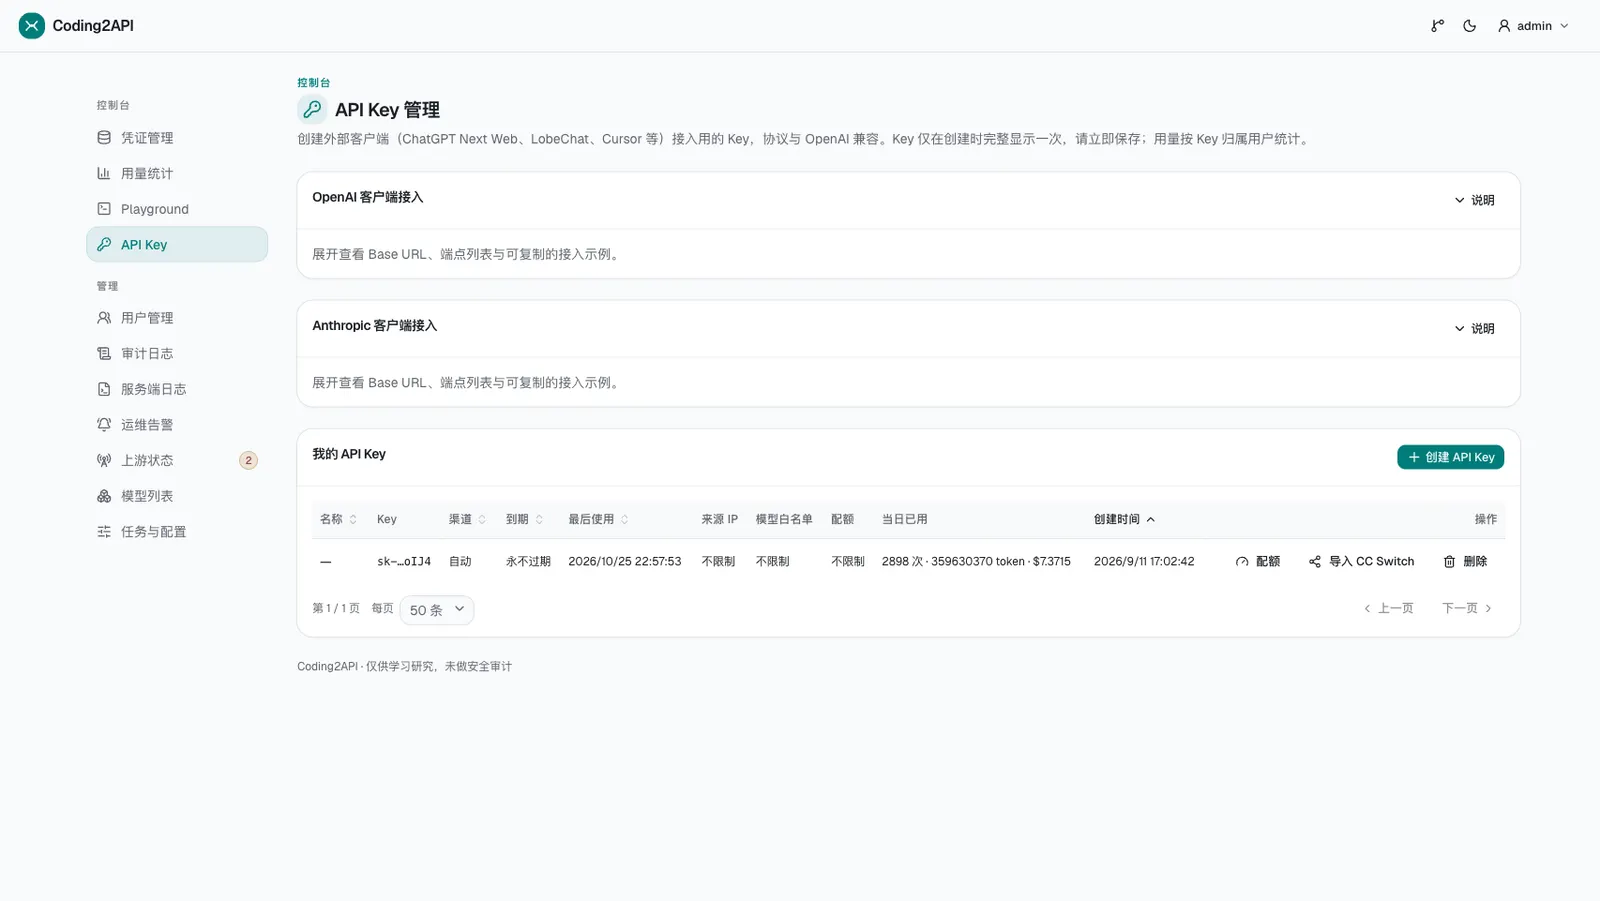
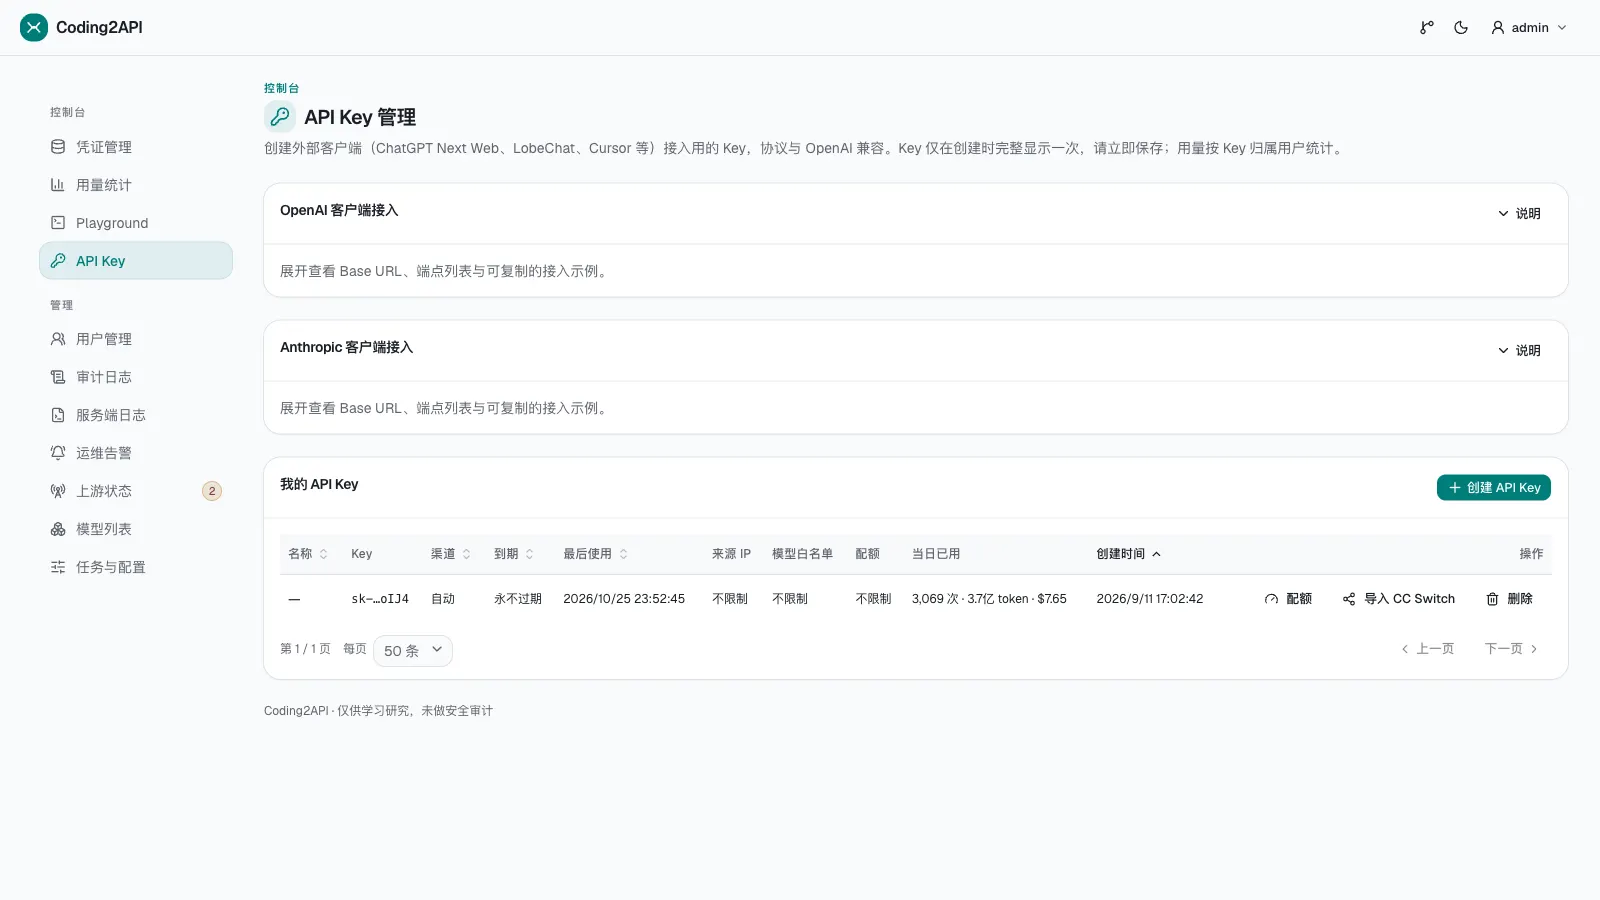
docs: 压紧 AGENTS / SECURITY / 设计系统表述，更新管理台截图
- 三份文档去掉冗余修饰与重复限定语（AGENTS 的质量门槛、SECURITY 的部署
  须知、设计系统的 token 表），语义不变。
- 截图换成当前管理台样式：模型列表页含「主动探活」卡，API Key 页的
  「当日已用」列改为统一数字格式化。

diff --git a/design-system/coding2api/MASTER.md b/design-system/coding2api/MASTER.md
@@ -1,7 +1,7 @@
 # Design System — Coding2API 管理台
 
-> **LOGIC:** 构建具体页面前，先看 `design-system/coding2api/pages/[page-name].md`。
-> 存在则其规则**覆盖**本文件；否则严格遵循本文件。
+> **LOGIC:** 建页前先看 `design-system/coding2api/pages/[page-name].md`。
+> 存在 → 其规则**覆盖**本文件；否则严格遵循本文件。
 
 ---
 
@@ -10,22 +10,21 @@
 **Category:** Developer tool / API gateway control plane
 **Source of truth:** `web/src/styles.css`（token） + `web/src/ui/index.tsx`（组件适配层；底层原语在 `web/src/components/ui/`）
 
-> ⚠ 本文件是**手工核定**的设计系统，不是 `search.py --design-system` 的自动输出。
-> 改 token 时**先改 `styles.css`**，再回写本表——不要反向操作。
+> ⚠ 本文件**手工核定**，非 `search.py --design-system` 自动输出。
+> 改 token **先改 `styles.css`** 再回写本表——不要反向操作。
 
 ---
 
 ## 1. 设计方向：「Control Plane」工业化控制台
 
-产品故事是**多路渠道汇入单一出口**（gateway）。视觉语言要传达：**实时、可信、可扫读**。
+产品故事：**多路渠道汇入单一出口**（gateway）。视觉语言：**实时、可信、可扫读**。
 
-- **保留青绿品牌色**：是产品故事的视觉锚，不做通用蓝/紫。
-- **表面分层 > 装饰**：层级靠背景/卡面/浮层的明度梯度表达，不堆阴影或渐变。
+- **保留青绿品牌色**：视觉锚，不做通用蓝/紫。
+- **表面分层 > 装饰**：层级靠背景/卡面/浮层明度梯度，不堆阴影或渐变。
 - **克制的技术质感**：细刻度、通道色条、等宽数字。**不做** HUD/霓虹/发光。
 - **暗色是一等公民**：分层用明度梯度（非阴影），单独校验对比度。
 
-**反模式（禁用）**：emoji 当图标、低对比灰字、布局位移的 hover、`z-[9999]` 乱值、
-颜色作唯一状态指示、无 `prefers-reduced-motion` 降级。
+**反模式（禁用）**：emoji 当图标、低对比灰字、布局位移的 hover、`z-[9999]` 乱值、颜色作唯一状态指示、无 `prefers-reduced-motion` 降级。
 
 ---
 
@@ -37,24 +36,21 @@
 |---|---|---|---|
 | `--primary` | `oklch(0.52 0.13 190)` | `oklch(0.74 0.12 190)` | 品牌主色（青绿） |
 | `--primary-foreground` | `oklch(0.99 0 0)` | `oklch(0.17 0.012 258)` | 主色上的文字 |
-| `--ok` | `oklch(0.54 0.14 155)` | `oklch(0.70 0.14 155)` | 成功 / 可用 |
-| `--warn` | `oklch(0.566 0.15 65)` | `oklch(0.78 0.13 70)` | 警告 / 未探测 / 冷却 |
-| `--danger` | `oklch(0.55 0.21 25)` | `oklch(0.70 0.20 22)` | 错误 / 已耗尽 |
+| `--ok` | `oklch(0.54 0.14 155)` | `oklch(0.70 0.14 155)` | 成功/可用 |
+| `--warn` | `oklch(0.566 0.15 65)` | `oklch(0.78 0.13 70)` | 警告/未探测/冷却 |
+| `--danger` | `oklch(0.55 0.21 25)` | `oklch(0.70 0.20 22)` | 错误/已耗尽 |
 | `--ring` | `oklch(0.62 0.11 190)` | `oklch(0.66 0.11 190)` | 焦点环 |
 
-> **对比度约束（亮色）**：语义色若直接当文字用（`text-ok`/`text-warn` 等）必须满足
-> 对白底 ≥4.5:1，故亮色 `--ok`/`--warn` 明度比暗色更低一档。放在同色浅底
-> （`bg-ok/12` 之类）上的文字，额外混入 25% `--ink`（`text-ok-ink` 等，见
-> `styles.css` 的 `--color-*-ink`），因为纯色号在自身浅底上对比会掉到 ~3.4–4.4。
+> **对比度约束（亮色）**：语义色作文字（`text-ok`/`text-warn` 等）对白底 ≥4.5:1 → 亮色 `--ok`/`--warn` 明度低暗色一档。同色浅底（`bg-ok/12` 之类）上的文字混入 25% `--ink`（`text-ok-ink` 等，见 `styles.css` 的 `--color-*-ink`）——纯色号在自身浅底掉到 ~3.4–4.4。
 
 ### 2.2 三级表面（关键）
 
 | Token | 亮色 | 暗色 | 用途 |
 |---|---|---|---|
-| `--surface-sunken` | `oklch(0.968 0.004 252)` | `oklch(0.145 0.012 258)` | 页面底 / 内嵌区 / 代码块 |
+| `--surface-sunken` | `oklch(0.968 0.004 252)` | `oklch(0.145 0.012 258)` | 页面底/内嵌区/代码块 |
 | `--surface` | `oklch(0.985 0.003 252)` | `oklch(0.175 0.012 258)` | 页面背景 |
-| `--panel` | `oklch(1 0 0)` | `oklch(0.215 0.013 258)` | 卡片 / 面板 |
-| `--panel-raised` | `oklch(1 0 0)` | `oklch(0.245 0.014 258)` | 浮层 / 下拉 / 弹窗 |
+| `--panel` | `oklch(1 0 0)` | `oklch(0.215 0.013 258)` | 卡片/面板 |
+| `--panel-raised` | `oklch(1 0 0)` | `oklch(0.245 0.014 258)` | 浮层/下拉/弹窗 |
 
 ### 2.3 文字与描边
 
@@ -66,8 +62,8 @@
 
 ### 2.4 图表 / 渠道色
 
-渠道色**随渠道稳定**（`web/src/api/providers.ts` 为唯一来源）：`chart-1`..`chart-6`。
-新增渠道只改 `providers.ts`，不要在图表里写死颜色。
+渠道色**随渠道稳定**（`web/src/api/providers.ts` 唯一来源）：`chart-1`..`chart-6`。
+新增渠道只改 `providers.ts`，图表不写死颜色。
 
 ---
 
@@ -81,7 +77,7 @@
 
 - 基础字号 16px；正文 `leading-relaxed`（1.625）。
 - 正文最小 12px（`text-xs`），不得更小。
-- 数字列一律 `tabular-nums`（避免翻页时列宽抖动）。
+- 数字列一律 `tabular-nums`（防翻页列宽抖动）。
 
 ---
 
@@ -110,23 +106,23 @@
 
 ## 5. 组件规范
 
-组件统一从 `web/src/ui/index.tsx` 取（它是 shadcn 适配层）。**不要**在页面里直接拼裸样式。
+组件统一取 `web/src/ui/index.tsx`（shadcn 适配层）。**不要**页面直接拼裸样式。
 
 | 组件 | 规范 |
 |---|---|
 | `Panel` | 卡片容器；`rounded-xl` + `ring-1 ring-border` + `shadow-sm`；标题行 + `action` 槽 |
 | `Button` | 变体 `default`(描边)/`primary`/`danger`/`ghost`/`link`；焦点环可见 |
 | `Badge` | 语义色调 `ok/warn/danger/muted/accent`；**必须带文字**，色不单独表意 |
-| `NavBadge` | 侧栏「数据提醒」计数角标：数字用 `tabular-nums`（轮询刷新不抖宽）、`>99` 收敛成 `99+`、值为 0/空不渲染；可见数字 `aria-hidden` + `sr-only` 全语义文案（读屏读「运维告警 3 条告警尚未恢复」而非两段无关的话） |
+| `NavBadge` | 侧栏「数据提醒」计数角标：`tabular-nums`（轮询不抖宽）、`>99` → `99+`、0/空不渲染；可见数字 `aria-hidden` + `sr-only` 全语义文案（读屏读「运维告警 3 条告警尚未恢复」，不读两段无关的话） |
 | `Metric` | KPI 卡：标签 + 大号 `tabular-nums` 数值 + hint；可选 icon 与 tone |
 | `Notice` | 行内提示；`danger` 用 `role=alert`；左侧语义色条 |
-| `ToastViewport` + `useToasts` | 操作结果浮层（顶部居中，`web/src/components/Toast.tsx`）：数秒自动消失、可手动关闭；`danger` 用 `role=alert`、其余 `role=status`；同 `testId` 只保留最新一条；语气用 `Badge`/`Notice` 同款 tint 底 + `-ink` 图标（亮色口径色描边叠白底对比过低，不可只用描边） |
+| `ToastViewport` + `useToasts` | 操作结果浮层（顶部居中，`web/src/components/Toast.tsx`）：数秒自动消失、可手动关；`danger` 用 `role=alert`、其余 `role=status`；同 `testId` 只留最新一条；语气同 `Badge`/`Notice`：tint 底 + `-ink` 图标（亮色口径色描边叠白底对比过低，不可只用描边） |
 | `EmptyState` | 空态：图标 + 标题 + 描述 + 可选操作 |
 | `Tabs` | 分段器；激活项 `bg-background` + `shadow-sm` |
-| `Table` | 圆角容器 + 表头底色 + 行 hover；移动端横向滚动。窄屏（<768px）可开 `cards` 转卡片：列名变排序片、每格用 `TableCell label` 显示字段名（DOM 不变，见 `styles.css`「窄屏表 → 卡片」） |
+| `Table` | 圆角容器 + 表头底色 + 行 hover；移动端横向滚动。窄屏（<768px）`cards` 转卡片：列名变排序片、每格 `TableCell label` 显示字段名（DOM 不变，见 `styles.css`「窄屏表 → 卡片」） |
 | `PageHeader` | eyebrow（可选）+ 标题 + 说明 + 右侧操作槽 |
 | `PageSkeleton` | 加载骨架，替代纯文字「载入中…」 |
-| `Tip` / `LongTextTip` | 悬浮说明两档表面（`web/src/components/Tip.tsx` → `components/ui/tooltip.tsx` 的 `surface`）：**短提示走 `ink`**（反色气泡 + 箭头，一句话强对比）；**多行清单 / 明细走 `panel`**（`panel-raised` + `ring-border` + `shadow-lg`，与下拉 / 弹窗同层，**不出箭头**——箭头会盖住描边留缺口）。`panel` 档内容自带「头部（身份 + 条数胶囊）/ 限高内滚清单 / 脚注口径」，左对齐且 `items-start`：多行居中会让每行起点都不同，读不成列 |
+| `Tip` / `LongTextTip` | 悬浮说明两档表面（`web/src/components/Tip.tsx` → `components/ui/tooltip.tsx` 的 `surface`）：**短提示走 `ink`**（反色气泡 + 箭头，一句强对比）；**多行清单/明细走 `panel`**（`panel-raised` + `ring-border` + `shadow-lg`，与下拉/弹窗同层，**不出箭头**——箭头盖住描边留缺口）。`panel` 档自带「头部（身份 + 条数胶囊）/限高内滚清单/脚注口径」，左对齐 `items-start`：多行居中每行起点不同，读不成列 |
 
 ---
 

diff --git a/AGENTS.md b/AGENTS.md
@@ -1,42 +1,31 @@
 # coding2api 项目级约束
 
-全局约束见 `~/.claude/CLAUDE.md`（opencode 经 `~/.config/opencode/AGENTS.md` 软链读取）；本文件是更具体的项目规则，冲突时以本文件为准。
+全局约束见 `~/.claude/CLAUDE.md`（opencode 经 `~/.config/opencode/AGENTS.md` 软链读取）；本文件更具体，冲突以本文件为准。
 
 ## 质量门槛（提交前必须全部通过）
 
 - 后端：`uv run ruff check src tests scripts` + `uv run pytest -q --cov=src --cov-report=term --cov-fail-under=100`
-  - 行/分支覆盖率 100% 是硬门槛；新增/修改的代码必须带测试，覆盖率缺口一律补测试解决，
-    禁止用 pragma/排除给「该测没测」的业务分支达标。允许的例外（必须带注释说明为何不可达）：
-    - src/：「按构造不可达」的防御兜底——`__main__` 入口、协议演进防御分支、前置 return
-      已排除的死分支
-    - tests/：测试替身实现了宽于本用例所需的接口方法（注释「由 XX 调用 / 本用例不调用」）
+  - 行/分支覆盖率 100% 硬门槛；新增/修改代码必须带测试，缺口一律补测试；禁止用 pragma/排除给「该测没测」业务分支达标。例外（必须注释为何不可达）：
+    - src/：「按构造不可达」的防御兜底——`__main__` 入口、协议演进防御分支、前置 return 已排除的死分支
+    - tests/：测试替身实现宽于本用例所需的接口方法（注释「由 XX 调用 / 本用例不调用」）
   - 平台差异分支不用 pragma，必须 monkeypatch 测全（见下条）
 - 前端（web/）：`pnpm exec tsc --noEmit` + `pnpm exec vitest run` + `pnpm build`
-- 注意平台差异：本地 macOS 通过不代表 CI（ubuntu-latest）通过；平台相关分支
-  （platform.system/machine 等）必须用 monkeypatch 测全所有分支
-- **测试不得依赖本地 `.env`**：本地 `.env` 补上 `APP_SECRET` 等必填项，CI 没有。
-  构造 `Settings` 必须显式传值；验证时临时移走 `.env` 再跑全量
-- **改 `src/` 必须重启服务才算验证完成**（只改前端则重新构建即可）。否则出现
-  「新前端 + 旧后端」错配：新端点 404，前端弹出与真实原因无关的兜底文案。
-  具体重启命令随部署形态而定，见 `docs/local-environment.md` 或 README「部署注意」
+- 平台差异：本地 macOS 通过不代表 CI（ubuntu-latest）通过；平台相关分支（platform.system/machine 等）必须 monkeypatch 测全所有分支
+- **测试不得依赖本地 `.env`**：本地 `.env` 补 `APP_SECRET` 等必填项，CI 没有。构造 `Settings` 必须显式传值；验证时移走 `.env` 跑全量
+- **改 `src/` 必须重启服务才算验证完成**（只改前端则重新构建）。否则「新前端 + 旧后端」错配：新端点 404，前端弹无关兜底文案。重启命令随部署形态，见 `docs/local-environment.md` 或 README「部署注意」
 
 ## GitHub Actions（硬约束）
 
-- push 到 main（或 PR）会触发 CI（.github/workflows/ci.yml）：backend / frontend / compose / security 四个 job
-- **推送后必须确认 CI 全绿才算完成**：`gh run watch $(gh run list --limit 1 --json databaseId -q '.[0].databaseId')`
-  或 `gh run list --limit 1`
-- CI 失败必须修复直到通过；不允许留下红色 main 分支
-- compose job 会在 Docker 内真实构建并启动服务（health 检查），改 Dockerfile / 依赖 /
-  启动逻辑时先本地 `docker build` 预演
-- **`web/.npmrc` 与 `web/pnpm-lock.yaml` 强耦合**：`auto-install-peers=false` 必须与 lock 里的
-  `settings.autoInstallPeers` 一致，且 `Dockerfile` 必须 `COPY web/.npmrc`。改任一处都要
-  本地 `docker build` 验证，否则 compose job 报 `ERR_PNPM_LOCKFILE_CONFIG_MISMATCH`
+- push 到 main（或 PR）触发 CI（.github/workflows/ci.yml）：backend / frontend / compose / security 四个 job
+- **推送后必须确认 CI 全绿才算完成**：`gh run watch $(gh run list --limit 1 --json databaseId -q '.[0].databaseId')` 或 `gh run list --limit 1`
+- CI 失败必须修到通过；不允许红色 main 分支
+- compose job 在 Docker 内真实构建并启动服务（health 检查）；改 Dockerfile/依赖/启动逻辑先本地 `docker build` 预演
+- **`web/.npmrc` 与 `web/pnpm-lock.yaml` 强耦合**：`auto-install-peers=false` 必须与 lock 的 `settings.autoInstallPeers` 一致，且 `Dockerfile` 必须 `COPY web/.npmrc`。改任一处都需本地 `docker build` 验证，否则 compose job 报 `ERR_PNPM_LOCKFILE_CONFIG_MISMATCH`
 
 ## 其他
 
 - 覆盖率/测试之外的行为变更（API 语义、DB schema、上游解析）需同步 PROPOSAL.md / README.md
 - SQLite schema 变更：schema.sql 只加不改（列注释可改）
   - 已有表的新列必须走 `src/db/migrate.py` 的 `_MIGRATION_COLUMNS` 幂等补列
-  - 删表必须在 schema.sql 删定义**同时**在 `_MIGRATION_DROPS` 补一条
-    （`CREATE TABLE IF NOT EXISTS` 对老库无效，不补删则遗留死表），并 `SCHEMA_VERSION + 1`
+  - 删表必须在 schema.sql 删定义**同时**在 `_MIGRATION_DROPS` 补一条（`CREATE TABLE IF NOT EXISTS` 对老库无效，不补删则遗留死表），并 `SCHEMA_VERSION + 1`
   - 两者都需附老库升级测试（`tests/db/test_repo_migrate.py` 有现成样板）

diff --git a/SECURITY.md b/SECURITY.md
@@ -2,34 +2,29 @@
 
 ## 报告漏洞
 
-请**不要**为安全问题开公开 Issue。用 GitHub 的
+安全问题**不要**开公开 Issue。走 GitHub
 [私密漏洞报告](https://github.com/RobbsLuo/Coding2API/security/advisories/new)
-提交，或直接邮件联系维护者（见仓库提交历史 / LICENSE 中的作者）。
+，或邮件联系维护者（见仓库提交历史 / LICENSE 作者）。
 
-请附上：
+请附：
 
-- 受影响的版本或 commit（`git rev-parse HEAD`）
+- 受影响版本或 commit（`git rev-parse HEAD`）
 - 复现步骤与最小 PoC
-- 影响面（能否未授权访问、能否读写凭证、能否打内网）
-- 你希望公开的时间点（如有）
+- 影响面（能否未授权访问、读写凭证、打内网）
+- 希望公开的时间点（如有）
 
 ## 响应
 
-单人维护项目，尽力而为：3 个工作日内确认收到，能修的尽快修，修复随常规
-release 发布并在 commit message 与 GitHub Release 说明里注明。
+单人维护，尽力而为：3 个工作日内确认收到，能修尽快修；修复随常规 release 发布，commit message 与 GitHub Release 说明注明。
 
 ## 部署方须知（本项目的信任边界）
 
-这个服务把上游账号凭证加密存在本地，并暴露管理台。部署时请确保：
+服务把上游账号凭证加密存本地，并暴露管理台。部署须确保：
 
-- `APP_SECRET` 是随机且保密的：它既是会话签名密钥，也是凭证加密密钥的派生源
-  （见 `src/db/crypto.py`）。泄露等同于凭证泄露。
-- 管理台不要裸暴露到公网。若必须暴露，前面套一层带鉴权/限流的反向代理，
-  并确保 `PUBLIC_BASE_URL` 与 `ALLOWED_HOSTS` 配置正确（见 README「配置」）。
-- `data/`（SQLite，含凭证密文与审计）、`secrets/users.txt`（口令哈希）不得进入
-  备份之外的任何地方；服务启动会把 `data/` 目录权限收到 `0700`。
-- 告警 webhook 地址由 admin 配置：写入期与**投递前**都会拒绝指向内网/回环/
-  链路本地（云元数据）的地址，解析失败按阻断处理。
-- 安全扫描在 CI 中执行：bandit（中危+）、pip-audit、`pnpm audit --prod`。
+- `APP_SECRET` 随机且保密：会话签名密钥 + 凭证加密密钥派生源（见 `src/db/crypto.py`）。泄露等同凭证泄露。
+- 管理台不要裸暴露公网。必须暴露时前置带鉴权/限流的反向代理，并确保 `PUBLIC_BASE_URL` 与 `ALLOWED_HOSTS` 正确（见 README「配置」）。
+- `data/`（SQLite，含凭证密文与审计）、`secrets/users.txt`（口令哈希）不得进备份之外任何地方；服务启动把 `data/` 权限收到 `0700`。
+- 告警 webhook 地址由 admin 配置：写入期与**投递前**都拒绝内网/回环/链路本地（云元数据）地址，解析失败按阻断处理。
+- 安全扫描在 CI 执行：bandit（中危+）、pip-audit、`pnpm audit --prod`。
 
 已知与已评估的非问题（扫描器误报口径）见 `PROPOSAL.md` 的安全审查章节。
